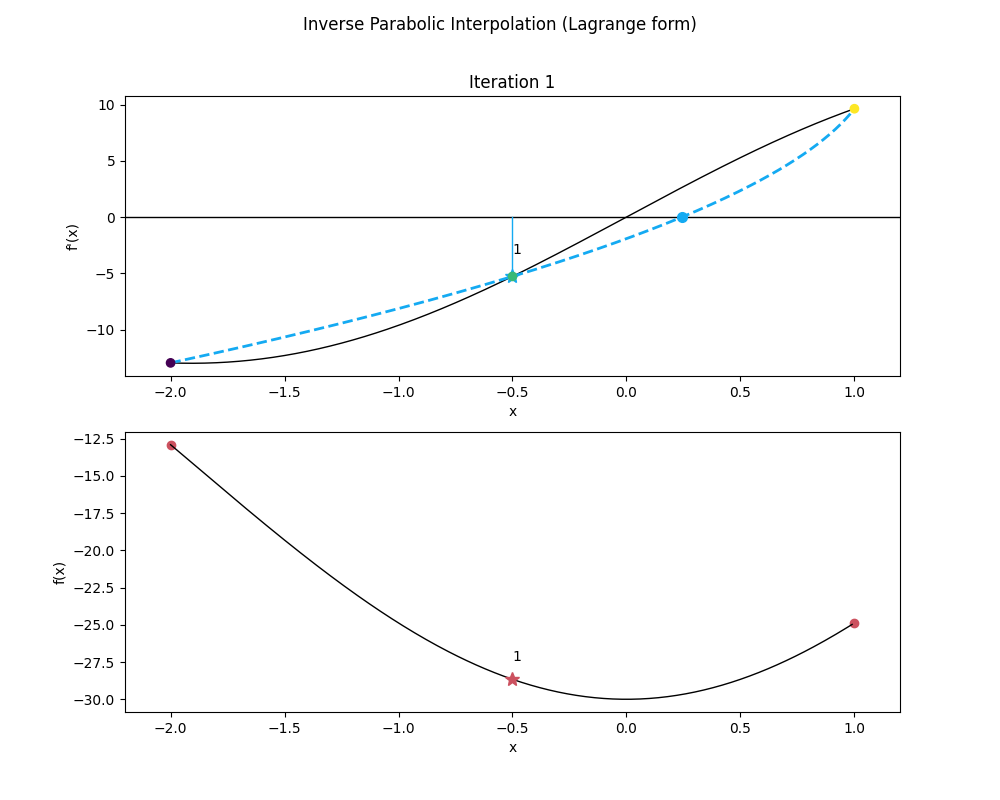
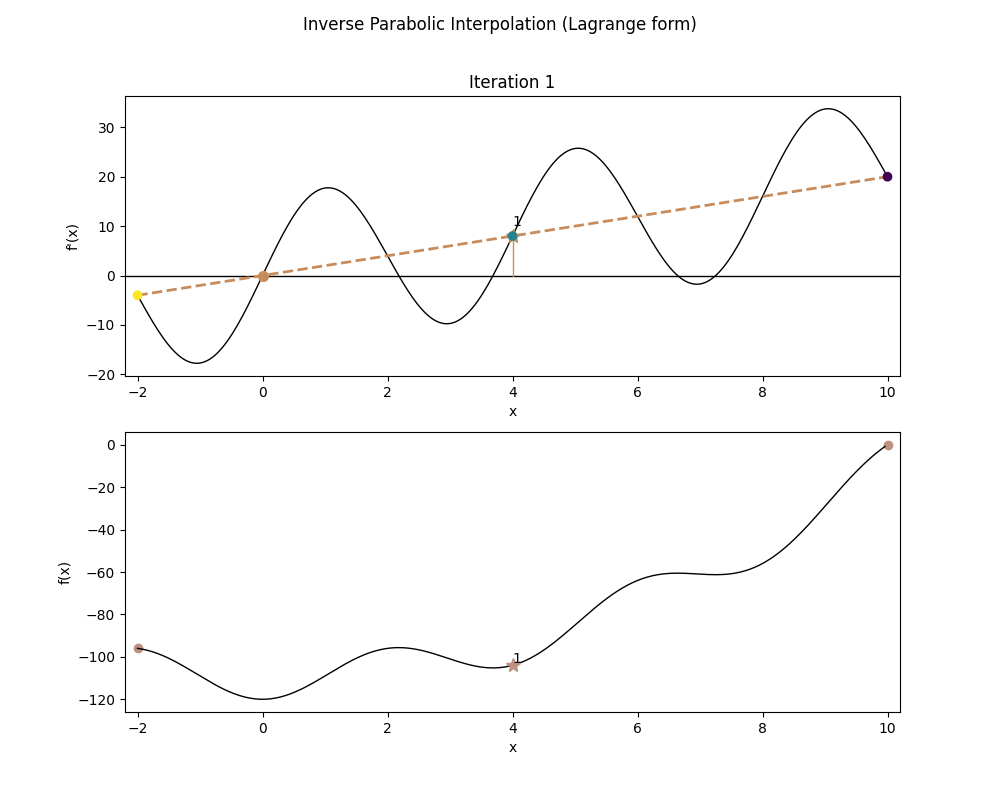
isearch

diff --git a/15_inverse_parabolic/isearch.py b/15_inverse_parabolic/isearch.py
@@ -4,9 +4,64 @@ matplotlib.use('Agg')  # Устанавливает backend 'Agg' — позво
 import matplotlib.pyplot as plt  # Импортирует pyplot из Matplotlib под псевдонимом plt — основной инструмент построения графиков.
 import random  # Импортирует модуль random для генерации случайных цветов при визуализации.
 
+'''
 def f(x): return x ** 2 - 10 * np.cos(0.3 * np.pi * x) - 20  # Определяет целевую функцию f(x) — осциллирующая квадратичная функция с множеством локальных минимумов.
 
 def df(x): return 2 * x + 3 * np.pi * np.sin(0.3 * np.pi * x)  # Определяет аналитическую производную f'(x).
+'''
+
+#тут нужно поставить интервал [6, 10]
+def f1(x):
+    return -2 * np.sin(np.sqrt(abs(x / 2 + 10))) - x * np.sin(np.sqrt(abs(x - 10)))
+
+def df1(x):
+    """
+    Аналитическая производная f1(x).
+    Не определена в x = -20 и x = 10 (особые точки из-за abs).
+    Возвращает вещественное число; в особых точках — приближение.
+    """
+    eps = 1e-15  # порог для избежания деления на ноль
+
+    # Часть 1: d/dx [ -2 * sin(sqrt(|x/2 + 10|)) ]
+    u = x / 2 + 10
+    abs_u = abs(u)
+    if abs_u < eps:
+        term1 = 0.0  # или np.nan — но 0 безопаснее для численных методов
+    else:
+        sign_u = np.sign(u)
+        sqrt_abs_u = np.sqrt(abs_u)
+        term1 = -2 * np.cos(sqrt_abs_u) * (sign_u / 4) / sqrt_abs_u
+        # Обоснование: d/dx sqrt(|u|) = (1/(2*sqrt(|u|))) * sign(u) * du/dx,
+        # где du/dx = 1/2 → итого: sign(u) / (4 * sqrt(|u|))
+
+    # Часть 2: d/dx [ -x * sin(sqrt(|x - 10|)) ] = -sin(...) - x * cos(...) * d/dx[sqrt(|x-10|)]
+    v = x - 10
+    abs_v = abs(v)
+    if abs_v < eps:
+        # При v ≈ 0: sqrt(|v|) ≈ 0, sin(0)=0, cos(0)=1, но производная sqrt(|v|) → ∞
+        # Однако множитель x * ... может компенсировать? Лучше использовать предел.
+        # Практически: ставим 0 или игнорируем особую точку.
+        term2 = -np.sin(0.0)  # = 0
+        term3 = 0.0
+    else:
+        sign_v = np.sign(v)
+        sqrt_abs_v = np.sqrt(abs_v)
+        term2 = -np.sin(sqrt_abs_v)
+        term3 = -x * np.cos(sqrt_abs_v) * (sign_v / (2 * sqrt_abs_v))
+
+    return term1 + term2 + term3
+
+#тут нужно поставить интервал (-2,10)
+def f(x):
+    return x ** 2 - 10 * np.cos(0.5 * np.pi * x) - 110
+
+def df(x):
+    """
+    Аналитическая производная f2(x) = x^2 - 10*cos(0.5*pi*x) - 110.
+    f2'(x) = 2x + 5*pi*sin(0.5*pi*x)
+    """
+    return 2 * x + 5 * np.pi * np.sin(0.5 * np.pi * x)
+
 
 
 def isearch(interval, tol):
@@ -161,7 +216,7 @@ def opisearchslides(coords, interval):
 
 def main():
     print("Find:")  # Сообщение о начале поиска.
-    interval = [-2, 1]  # Задаёт начальный интервал (сужен по сравнению с предыдущим примером).
+    interval = [-2, 10]  # Задаёт начальный интервал (сужен по сравнению с предыдущим примером).
     tol = 1e-2  # Задаёт относительно грубую точность остановки (0.01).
     [xmin, f, neval, coords] = isearch(interval, tol)  # Вызывает метод обратной параболической интерполяции.
     print([xmin, f, neval])  # Выводит результат: найденная точка, значение функции, число вычислений.
